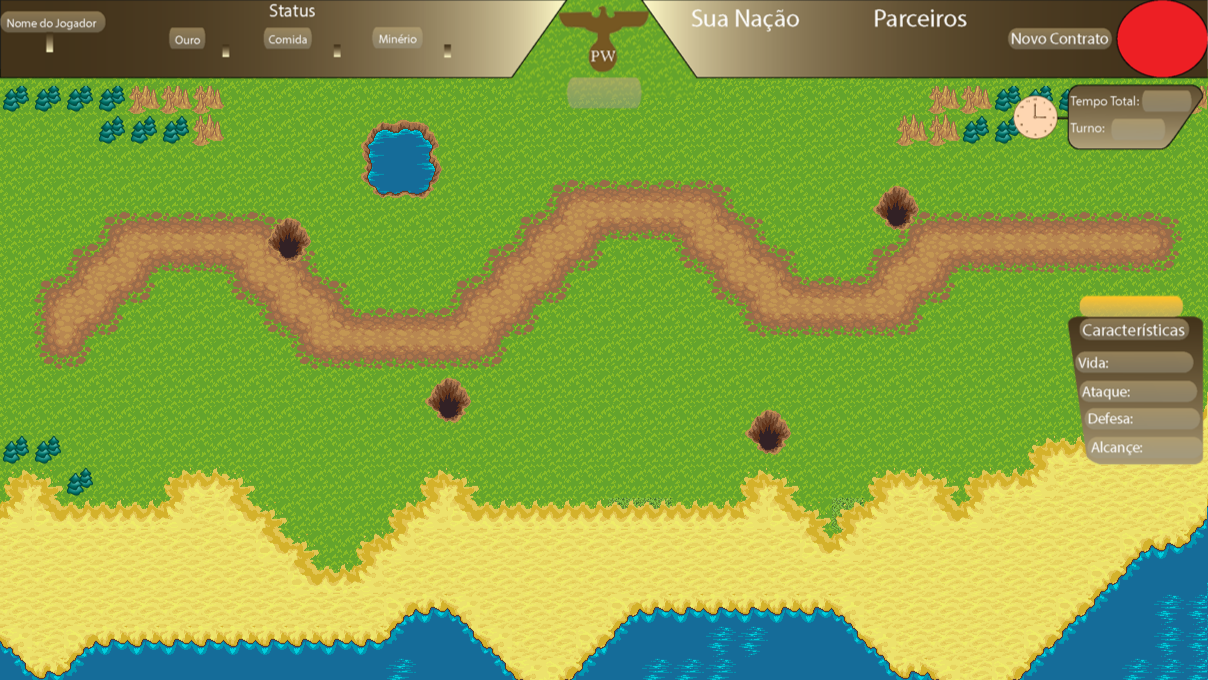
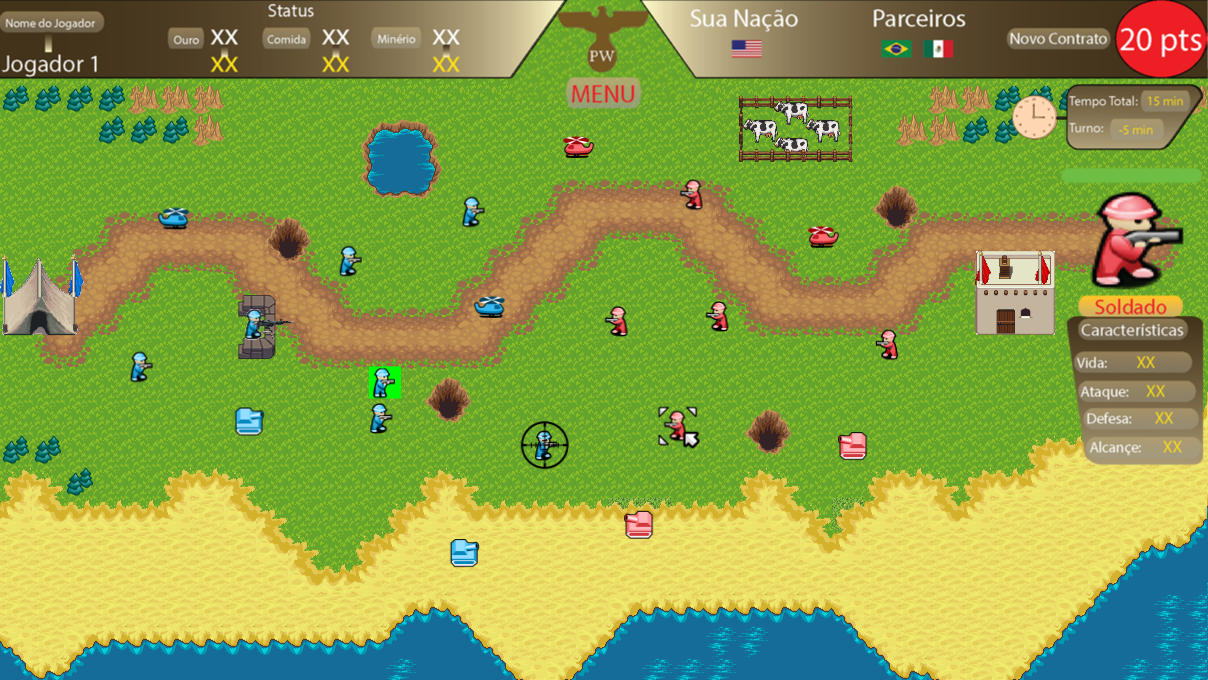
Zuera

diff --git a/source/GameFeatures/Jogar/Fase1/carregar_fase1.cpp b/source/GameFeatures/Jogar/Fase1/carregar_fase1.cpp
@@ -23,10 +23,19 @@ void carregar_fase1(SDL_Surface *screen, string pais_serv,string pais_client){
     SDL_Surface *mapa1 = load_Image(caminho, screen);
     BlitImage(screen, mapa1, 0, 0);
 
+    caminho = "source/GameFeatures/Jogar/Fase1/images/unidade_azul_direita1.png";
+    SDL_Surface *sold = load_Image(caminho, screen);
+    BlitImage(screen, sold, 600, 500);
+
+    SDL_Flip(screen);
+
+    SDL_Delay(10000);
+/*
     caminho = "source/GameFeatures/Jogar/Fase1/images/FundoHUD.png";
     cout<<"caminho:" << caminho<<endl;
     SDL_Surface *hud = load_Image(caminho, screen);
     BlitImage(screen, hud, 0, 0);
+    */
 
 
     if(strcmp("china","china") == 0){
